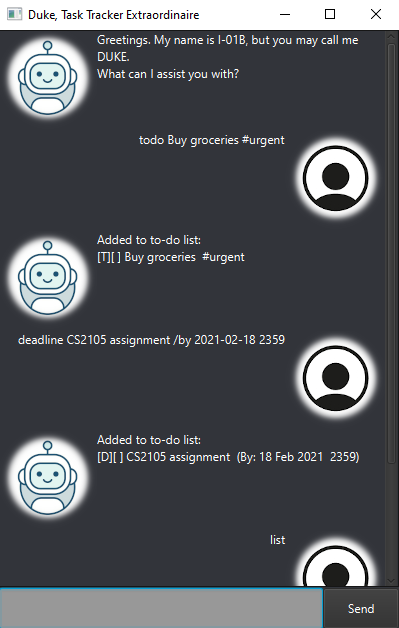
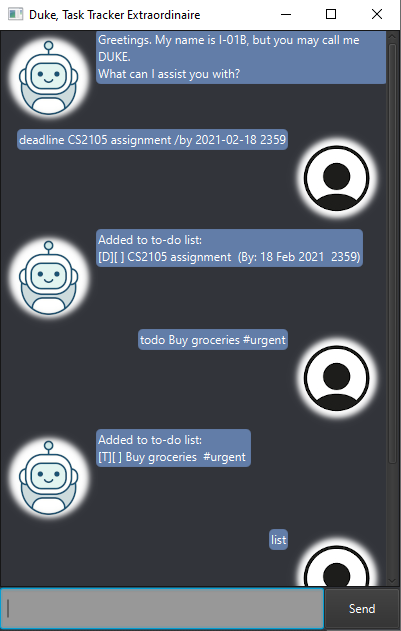
Fix bug with Ui, change screenshot to reflect updated UI

diff --git a/src/main/java/duke/DialogBox.java b/src/main/java/duke/DialogBox.java
@@ -30,6 +30,7 @@ public class DialogBox extends HBox {
     }
 
     private void flip() {
+        this.setAlignment(Pos.TOP_LEFT);
         ObservableList<Node> tmp = FXCollections.observableArrayList(this.getChildren());
         FXCollections.reverse(tmp);
         this.getChildren().setAll(tmp);
@@ -37,7 +38,7 @@ public class DialogBox extends HBox {
 
     private void style() {
         CornerRadii rad = new CornerRadii(5);
-        Color color = Color.rgb(0, 148, 135);
+        Color color = Color.rgb(98,  125,  168);
         BackgroundFill backgroundFill = new BackgroundFill(color, rad, new Insets(-2, -2, -2 , -2));
         Background background = new Background(backgroundFill);
         text.setBackground(background);
